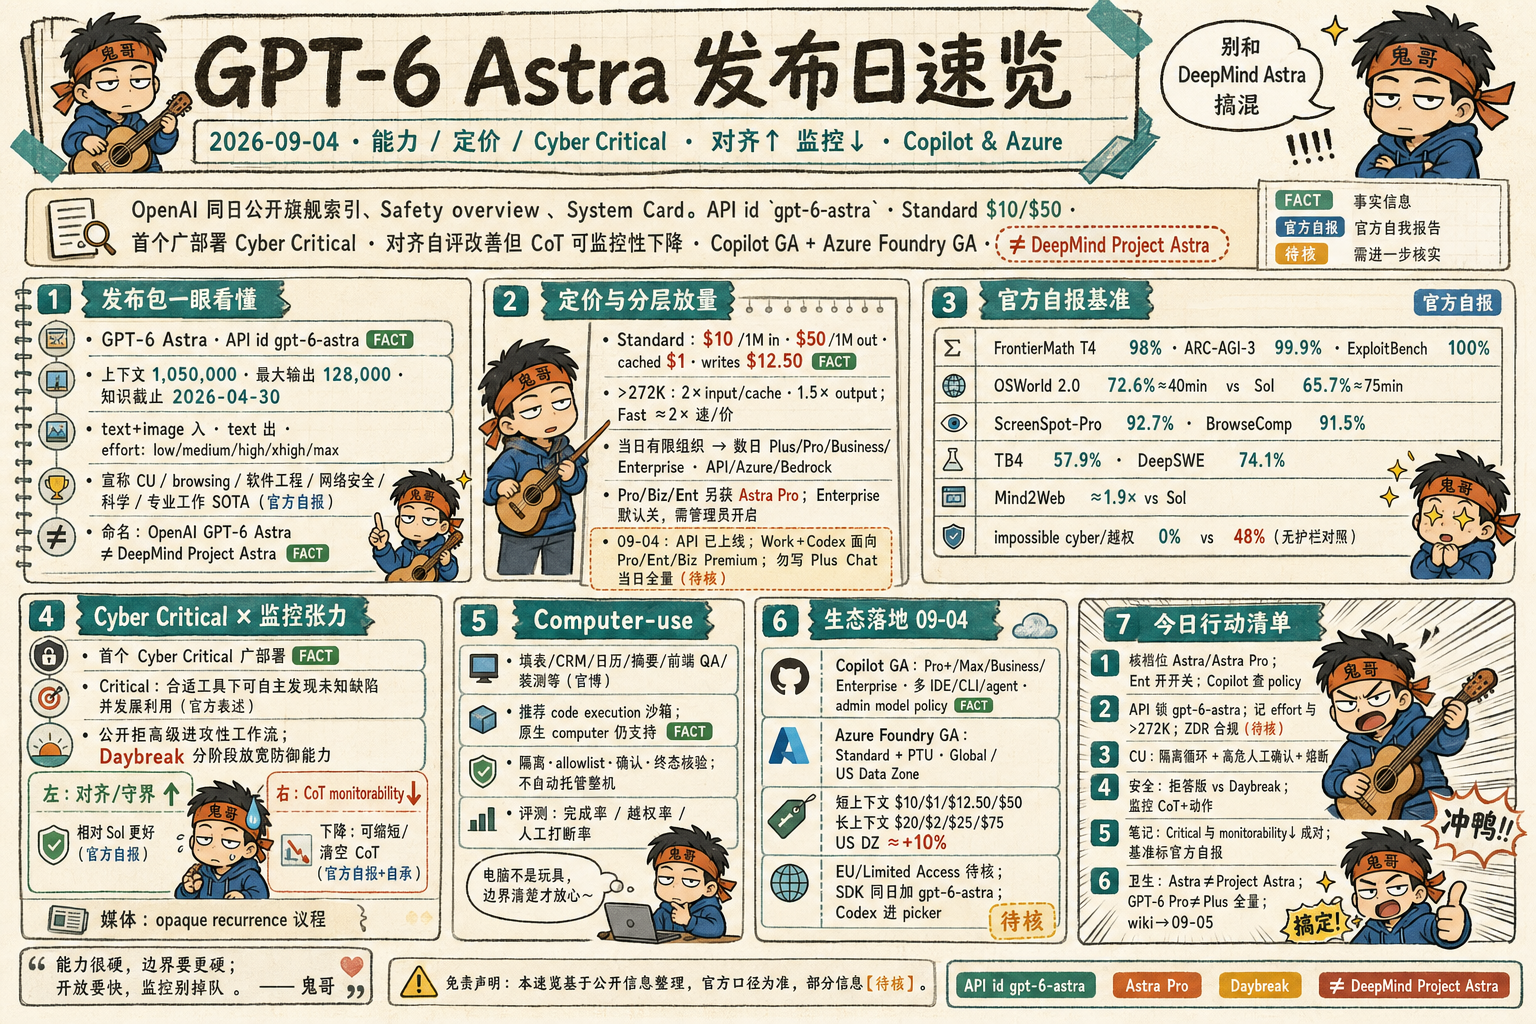
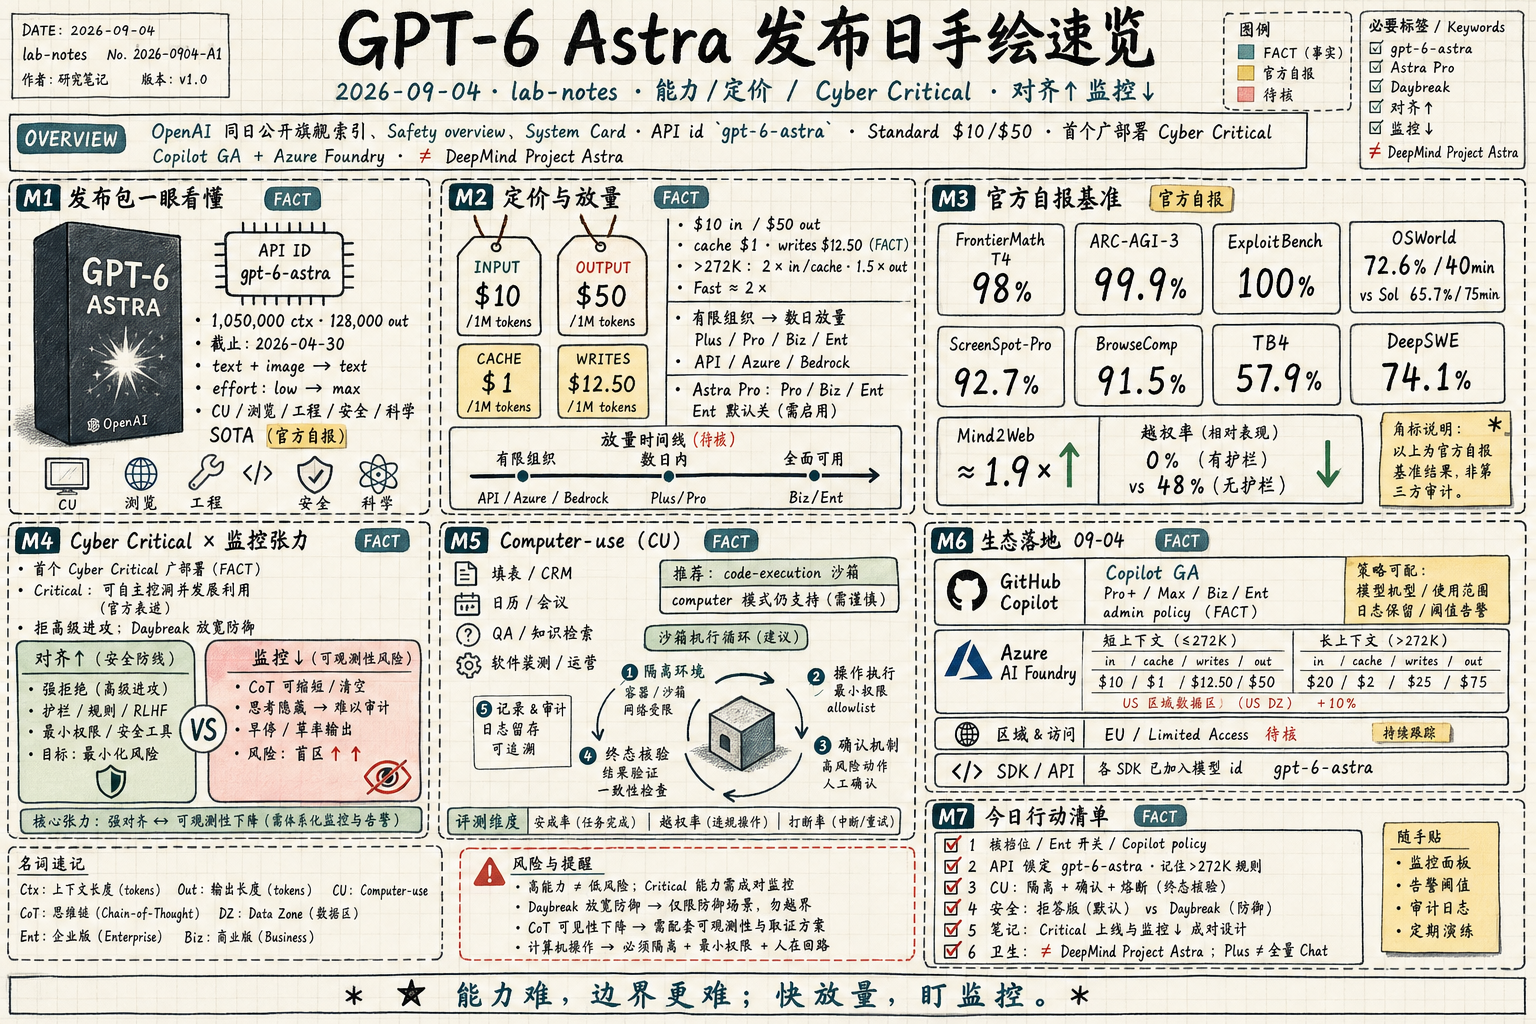
content: refresh 09-04 hero + add 09-06 hand-write hero

diff --git a/content/daily/2026-09-04.md b/content/daily/2026-09-04.md
@@ -4,7 +4,7 @@ date: 2026-09-04T08:00:00+08:00
 summary: "GPT-6 Astra（口语 Astro）：09-03 官宣+三件套，09-04 Copilot/Work·Codex 放量；Chat GPT-6 Pro 与 Plus 面要分清。"
 tags: ["OpenAI", "GPT-6 Astra", "Cyber Critical", "computer-use", "GitHub Copilot", "Azure Foundry", "System Card", "API"]
 hero: "img/daily/2026-09-04-infographic.png"
-hero_alt: "GPT-6 Astra 发布日速览信息图"
+hero_alt: "GPT-6 Astra 发布日手绘知识图（lab-notes）"
 sources: ["openai.com", "deploymentsafety.openai.com", "developers.openai.com", "github.blog", "azure.microsoft.com", "theverge.com", "techcrunch.com", "engadget.com", "nbcnews.com", "anthropic.com", "blog.google", "deepmind.google", "github.com", "x.com", "reuters.com", "help.openai.com"]
 ---
 

diff --git a/content/daily/2026-09-06.md b/content/daily/2026-09-06.md
@@ -3,6 +3,8 @@ title: "2026-09-06 AI 深读"
 date: 2026-09-06T08:00:00+08:00
 summary: "OpenAI 认领 wiki misalignment 并承诺披露框架；Astra CU 与无状态 MCP 对照；Fermat 形式化承上。"
 tags: ["OpenAI", "Astra", "安全对齐", "MCP", "Anthropic", "形式化", "GitHub", "HuggingFace"]
+hero: "img/daily/2026-09-06-infographic.png"
+hero_alt: "2026-09-06 AI 深读手绘知识图（lab-notes）"
 sources: ["collusion.wiki", "techcrunch.com", "openai.com", "github.blog", "anthropic.com", "langchain.com", "blog.google", "microsoft.ai", "arxiv.org", "huggingface.co", "x.com", "github.com"]
 ---
 
